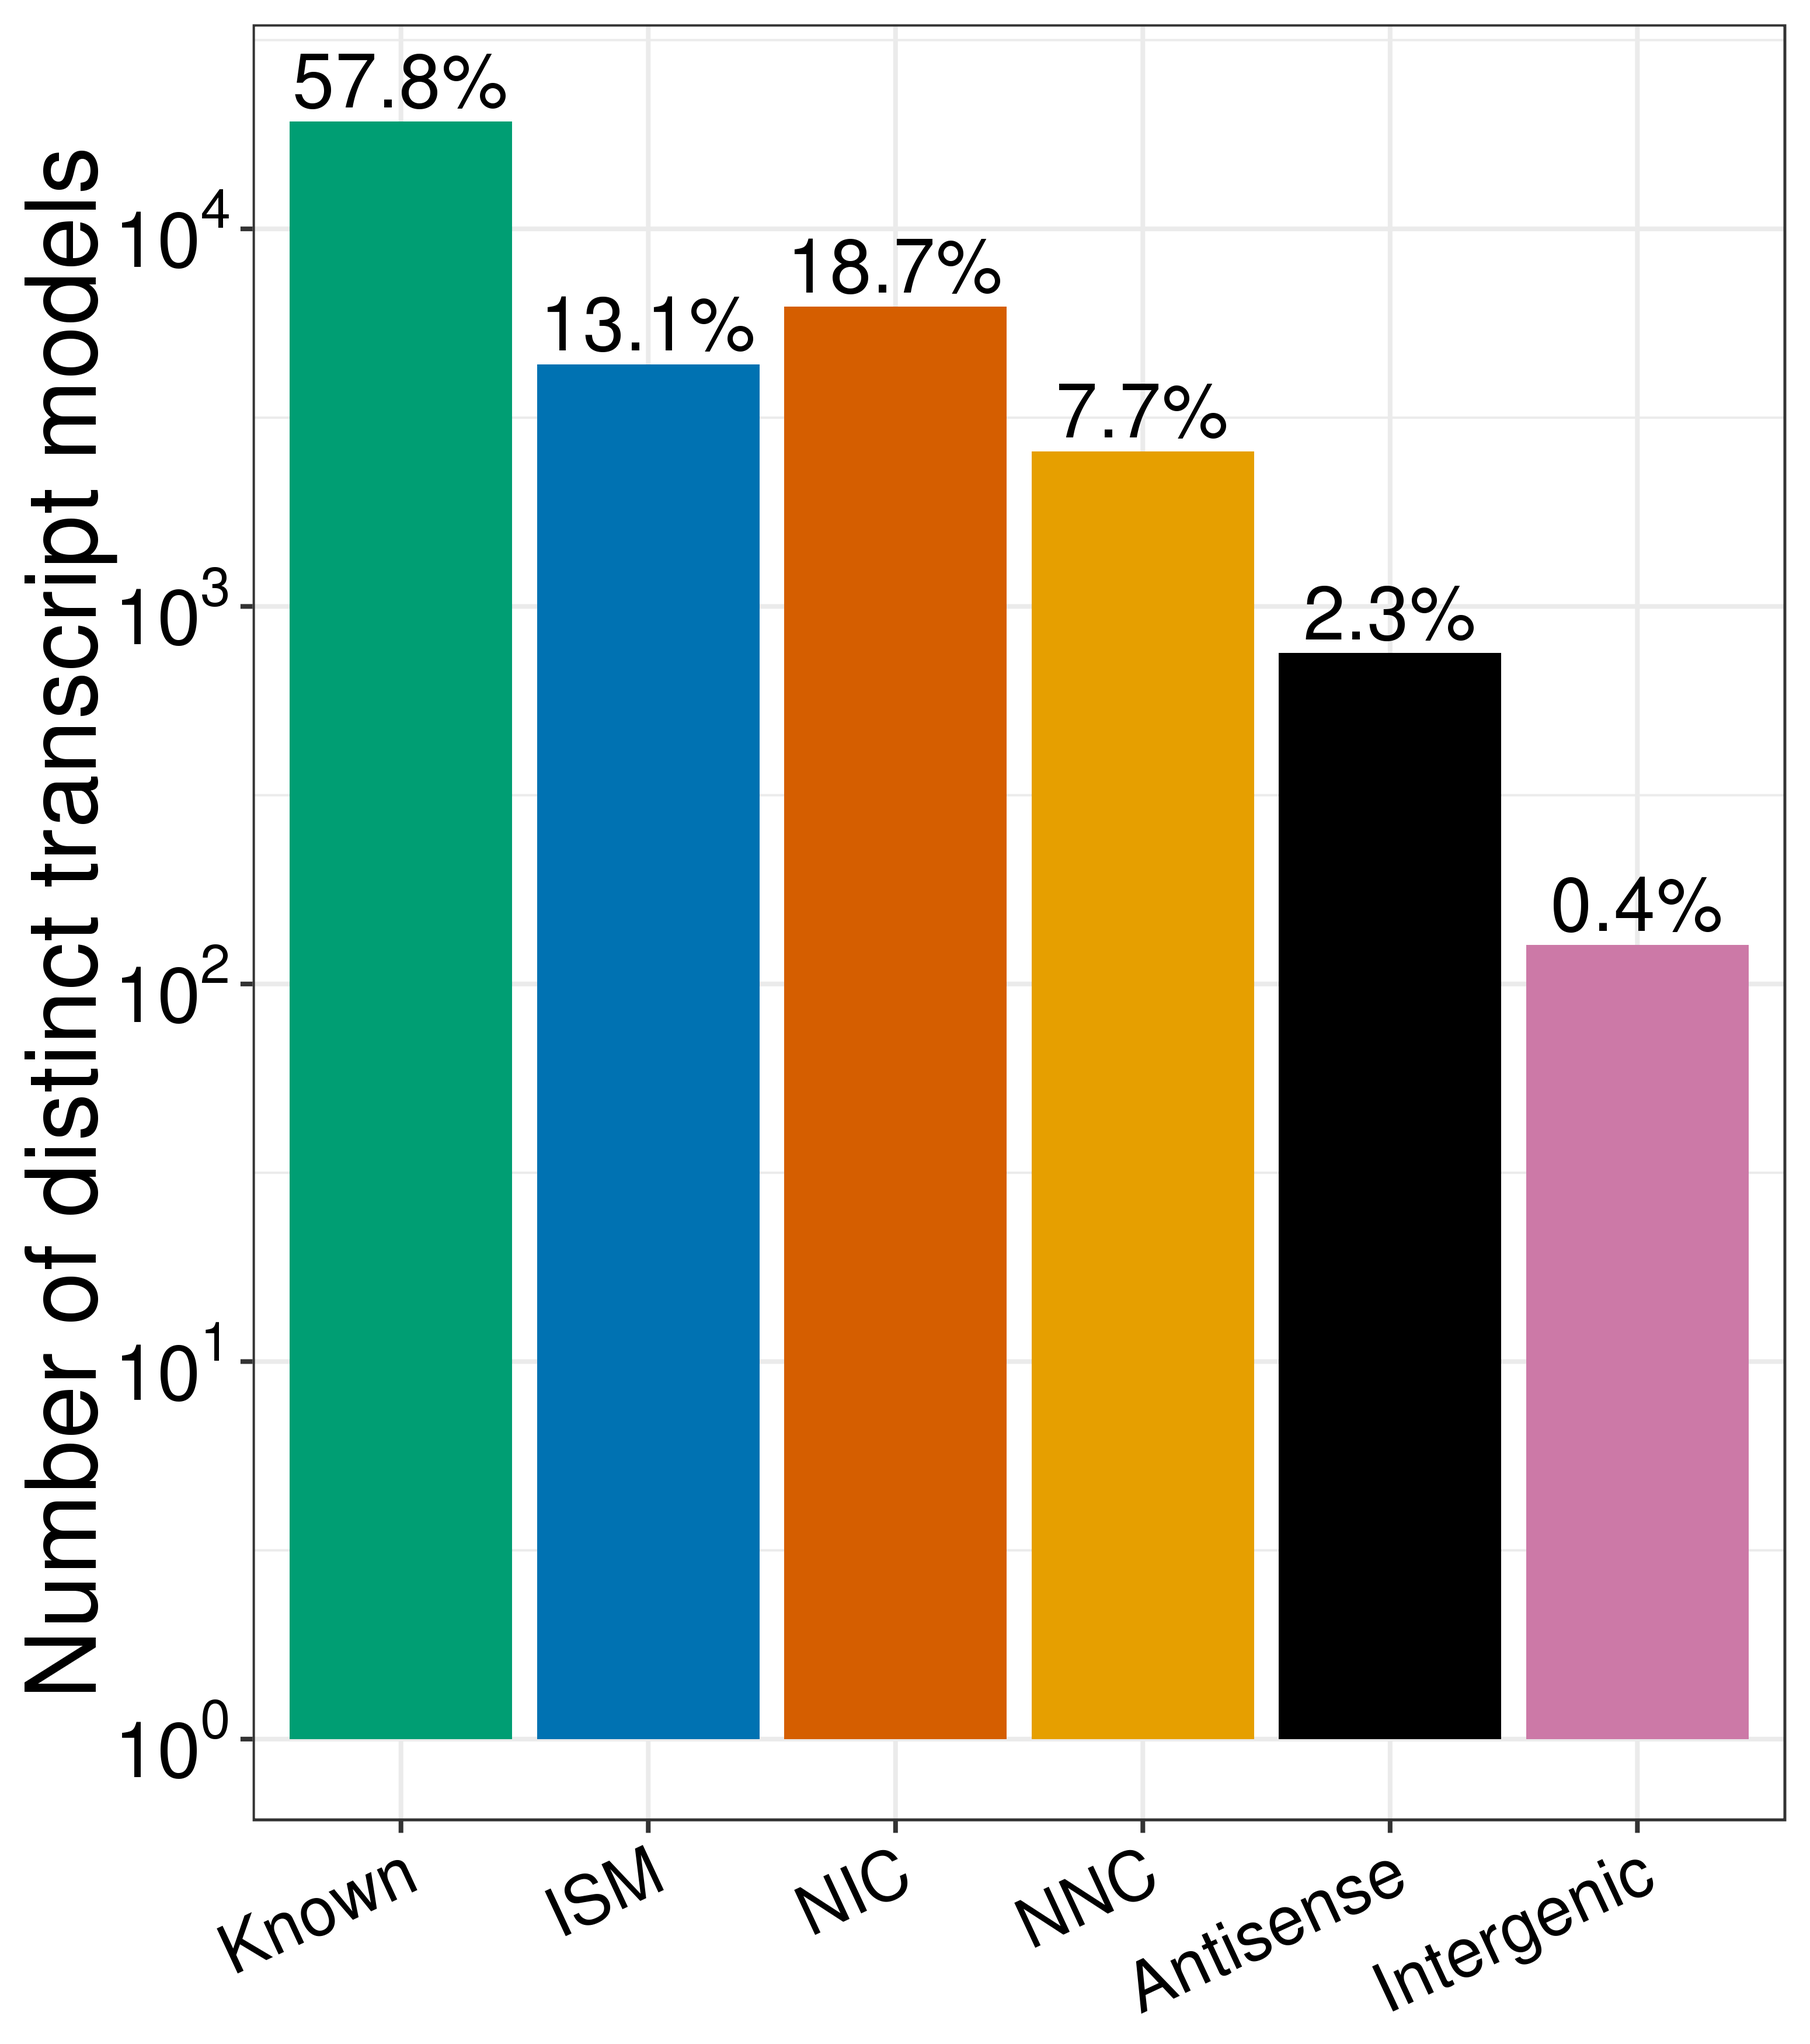
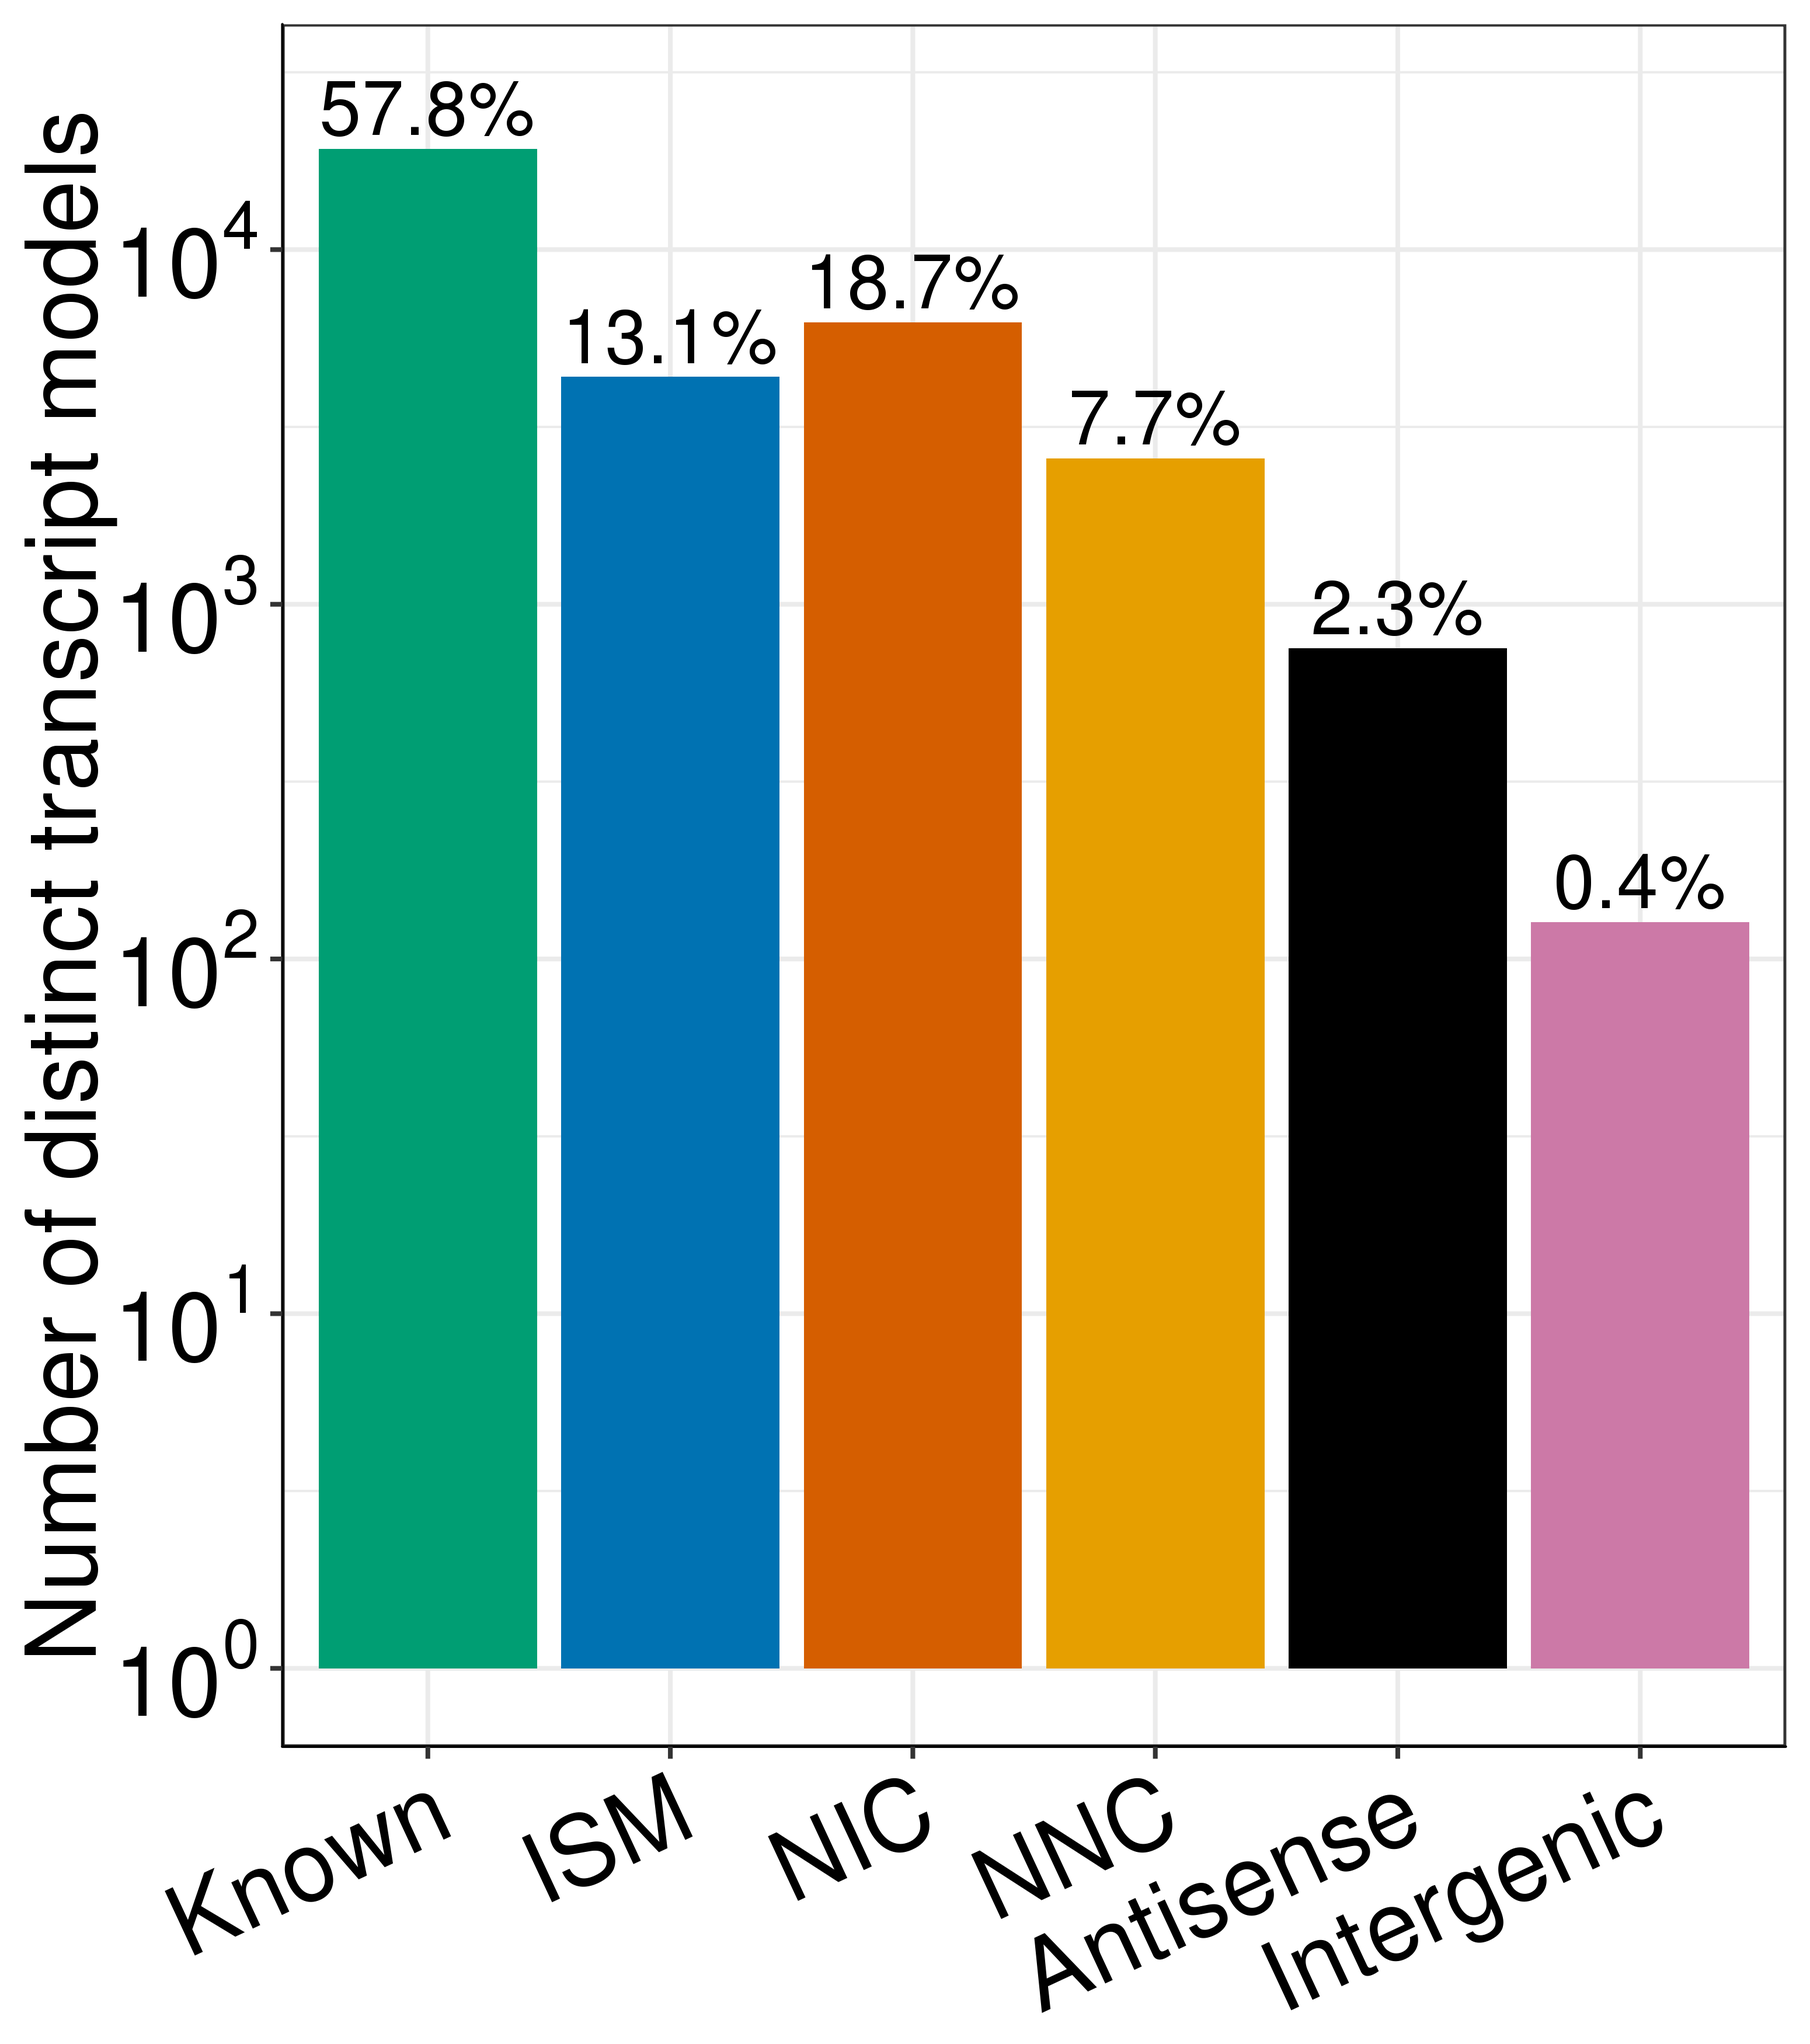
Added xmax and ymax options; Increased font sizes

Changed region(s): [[0.0, 0.0, 0.991, 0.9966]]

diff --git a/Figure_2/README.md b/Figure_2/README.md
@@ -52,6 +52,7 @@ Rscript ${PLOTPATH}/longread_v_illumina_genes_edgeR.R \
          --ik1 ${kallisto1} \
          --ik2 ${kallisto2} \
          --color blue \
+         --ymax 16 \
          -o .
 ```
 <img align="center" width="400" src="edgeR_PacBio_illumina_gene_MA_plot.png">
@@ -103,6 +104,7 @@ Rscript ${PLOTPATH}/longread_v_illumina_transcripts_edgeR.R \
          --ik1 ${kallisto1} \
          --ik2 ${kallisto2} \
          --color green \
+         --ymax 16 \
           -o . 
 
 ```
